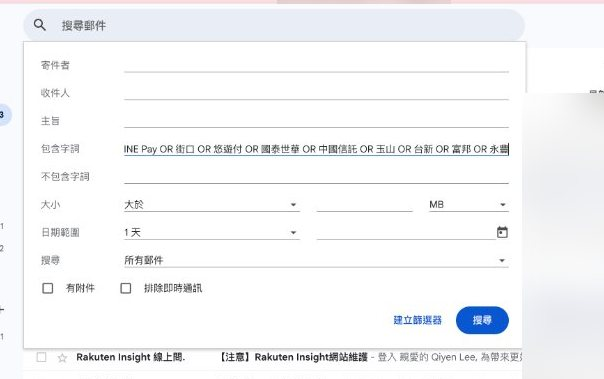
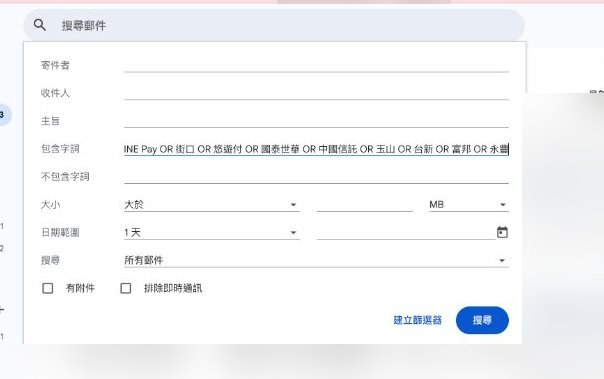
修正教學影片滑鼠殘影、逐張校對所有點擊座標並拉長每幕停留時間至 3.5 秒

Changed region(s): [[0.3576, 0.8997, 0.8642, 0.9578], [0.0298, 0.8997, 0.3278, 0.9578], [0.3278, 0.8997, 0.3576, 0.9288]]

diff --git a/src/features/inbox/GuideDemoVideo.tsx b/src/features/inbox/GuideDemoVideo.tsx
@@ -24,18 +24,20 @@ interface FrameDef {
   phase: number;
 }
 
+const FRAME_MS = 3500;
+
 const SCENE_FRAMES: Record<GuideDemoScene, FrameDef[]> = {
   'shortcut-step1': [
     {
       img: '/guides/sc-1a.jpg',
       caption: '打開 iCloud 捷徑後，點下方藍色「設定捷徑」',
-      cursor: { x: 50, y: 92, click: true },
+      cursor: { x: 50, y: 96, click: true },
       phase: 0,
     },
     {
       img: '/guides/sc-1b.jpg',
       caption: '長按「Text」輸入框，選擇「貼上」專屬連結碼',
-      cursor: { x: 28, y: 23, click: true },
+      cursor: { x: 16, y: 24, click: true },
       phase: 1,
     },
     {
@@ -49,19 +51,19 @@ const SCENE_FRAMES: Record<GuideDemoScene, FrameDef[]> = {
     {
       img: '/guides/sc-2a.jpg',
       caption: '在「自動化」分頁確認「自動化操作」為綠色開啟',
-      cursor: { x: 86, y: 65, click: true },
+      cursor: { x: 86, y: 74, click: true },
       phase: 0,
     },
     {
       img: '/guides/sc-2a.jpg',
       caption: '點上方 App 列表確認已勾選銀行／支付通知來源',
-      cursor: { x: 50, y: 36, click: true },
+      cursor: { x: 42, y: 54, click: true },
       phase: 1,
     },
     {
       img: '/guides/sc-2a.jpg',
       caption: '下方「感應任何卡片時」也可依需求開啟 ✓',
-      cursor: { x: 45, y: 83, click: true },
+      cursor: { x: 34, y: 96, click: true },
       phase: 2,
     },
   ],
@@ -75,25 +77,25 @@ const SCENE_FRAMES: Record<GuideDemoScene, FrameDef[]> = {
     {
       img: '/guides/gm-2a.jpg',
       caption: '點 Gmail 右上角齒輪 ⚙ →「查看所有設定」',
-      cursor: { x: 85, y: 16, click: true },
+      cursor: { x: 86, y: 16, click: true },
       phase: 0,
     },
     {
       img: '/guides/gm-2b.jpg',
-      caption: '切到「轉寄和 POP/IMAP」→ 點「新增轉寄地址」',
-      cursor: { x: 50, y: 39, click: true },
+      caption: '切到「轉寄和 POP/IMAP」分頁',
+      cursor: { x: 45, y: 41, click: true },
       phase: 1,
     },
     {
       img: '/guides/gm-2c.jpg',
-      caption: '貼上專屬轉寄地址並點「下一步」送出驗證',
-      cursor: { x: 64, y: 76, click: true },
+      caption: '點「新增轉寄地址」貼上專屬地址，再點「下一步」',
+      cursor: { x: 59, y: 80, click: true },
       phase: 2,
     },
     {
       img: '/guides/gm-2d.jpg',
       caption: '完成 Gmail 驗證後，維持「停用轉寄」即可 ✓',
-      cursor: { x: 32, y: 22, click: true },
+      cursor: { x: 26, y: 28, click: true },
       phase: 3,
     },
   ],
@@ -106,34 +108,40 @@ const SCENE_FRAMES: Record<GuideDemoScene, FrameDef[]> = {
     },
     {
       img: '/guides/gm-3b.jpg',
-      caption: '在「包含字詞」貼上關鍵字 → 點「建立篩選器」',
-      cursor: { x: 71, y: 86, click: true },
+      caption: '在「包含字詞」欄位貼上消費與銀行關鍵字',
+      cursor: { x: 42, y: 39, click: true },
       phase: 1,
+    },
+    {
+      img: '/guides/gm-3b.jpg',
+      caption: '點右下角「建立篩選器」進入動作設定',
+      cursor: { x: 69, y: 84, click: true },
+      phase: 2,
     },
     {
       img: '/guides/gm-3c.jpg',
       caption: '勾選「轉寄給」專屬地址並點「建立篩選器」✓',
-      cursor: { x: 82, y: 87, click: true },
-      phase: 2,
+      cursor: { x: 77, y: 88, click: true },
+      phase: 3,
     },
   ],
   'email-step4': [
     {
       img: '/guides/gm-4a.jpg',
-      caption: '打開銀行消費通知信，點右上角 ⋮ →「轉寄」（或下方轉寄）',
-      cursor: { x: 85, y: 21, click: true },
+      caption: '打開銀行消費通知信，點右上角 ⋮ →「轉寄」',
+      cursor: { x: 83, y: 21, click: true },
       phase: 0,
     },
     {
       img: '/guides/gm-4b.jpg',
-      caption: '收件者貼上專屬轉寄地址，點左下角藍色「傳送」',
-      cursor: { x: 12, y: 92, click: true },
+      caption: '在「收件者」欄位貼上專屬轉寄地址',
+      cursor: { x: 28, y: 17, click: true },
       phase: 1,
     },
     {
       img: '/guides/gm-4b.jpg',
-      caption: '送出後回到 Aster，狀態會顯示「已連線 · 1 筆」✓',
-      cursor: { x: 12, y: 92 },
+      caption: '點左下角藍色「傳送」，回到 Aster 即會顯示「已連線」✓',
+      cursor: { x: 12, y: 90, click: true },
       phase: 2,
     },
   ],
@@ -152,17 +160,18 @@ function CursorPointer({
 }) {
   return (
     <div
+      key={stepKey}
       className={`gdemo-cursor${click ? ' is-click' : ''}`}
       style={{ left: `${x}%`, top: `${y}%` }}
       aria-hidden="true"
     >
-      {click && <span key={stepKey} className="gdemo-ripple" />}
+      {click && <span className="gdemo-ripple" />}
       <svg width="22" height="22" viewBox="0 0 24 24" fill="none">
         <path
           d="M5.5 3.2L19 12.2l-6.1 1.4 2.7 5.5-2.2 1.1-2.7-5.5L6.5 19V3.2Z"
           fill="#FFFFFF"
           stroke="#111318"
-          strokeWidth="1.9"
+          strokeWidth="2.1"
           strokeLinejoin="round"
         />
       </svg>
@@ -228,7 +237,7 @@ export function GuideDemoVideo({ scene }: { scene: GuideDemoScene }) {
     setIdx(0);
     const id = window.setInterval(() => {
       setIdx((i) => (i + 1) % frames.length);
-    }, 1850);
+    }, FRAME_MS);
     return () => window.clearInterval(id);
   }, [scene, frames.length]);
 

diff --git a/src/theme/app.css b/src/theme/app.css
@@ -4211,25 +4211,29 @@ html.voice-holding .sheet, html.voice-holding .sheet-backdrop { pointer-events: 
   color: #065f46; font-size: 7.5px; font-weight: 700;
 }
 
-/* 明顯但不過大的模擬滑鼠指標（相對於實機螢幕） */
+/* 明顯但不過大的模擬滑鼠指標（純 transform/opacity 動畫，避免 iOS WebKit left/top + drop-shadow 產生殘影） */
 .gdemo-cursor {
   position: absolute; z-index: 12; pointer-events: none;
-  transform: translate(-3px, -2px);
-  transition: left 380ms cubic-bezier(0.22, 1, 0.36, 1), top 380ms cubic-bezier(0.22, 1, 0.36, 1);
-  filter: drop-shadow(0 2px 5px rgba(0, 0, 0, 0.55));
+  transform: translate3d(-5px, -3px, 0);
+  will-change: transform, opacity;
+  backface-visibility: hidden;
+  -webkit-backface-visibility: hidden;
 }
-.gdemo-cursor.is-click { animation: gdemo-tap 560ms ease-in-out 380ms 1; }
+.gdemo-cursor.is-click { animation: gdemo-tap 700ms cubic-bezier(0.22, 1, 0.36, 1) 180ms 1; }
 .gdemo-ripple {
-  position: absolute; left: -6px; top: -6px; width: 18px; height: 18px; border-radius: 50%;
-  border: 2px solid #38bdf8; opacity: 0; animation: gdemo-ripple 580ms ease-out 380ms 1;
+  position: absolute; left: -9px; top: -9px; width: 28px; height: 28px; border-radius: 50%;
+  border: 2.5px solid #38bdf8; opacity: 0;
+  will-change: transform, opacity;
+  animation: gdemo-ripple 720ms ease-out 260ms 1;
 }
 @keyframes gdemo-tap {
-  0%, 100% { transform: translate(-3px, -2px) scale(1); }
-  45% { transform: translate(-3px, -2px) scale(0.84); }
+  0% { transform: translate3d(-5px, -3px, 0) scale(1); }
+  40% { transform: translate3d(-5px, -3px, 0) scale(0.82); }
+  100% { transform: translate3d(-5px, -3px, 0) scale(1); }
 }
 @keyframes gdemo-ripple {
-  0% { transform: scale(0.5); opacity: 0.95; }
-  100% { transform: scale(1.75); opacity: 0; }
+  0% { transform: scale(0.4); opacity: 0.95; }
+  100% { transform: scale(1.65); opacity: 0; }
 }
 .gdemo-real-frame {
   position: relative;

diff --git a/tests/unit/guide-demo-video.test.ts b/tests/unit/guide-demo-video.test.ts
@@ -29,7 +29,7 @@ describe('GuideDemoVideo 真實截圖與動態指標教學', () => {
     { scene: 'shortcut-step1', expectedSteps: 3, expectedImgPrefix: '/guides/sc-1' },
     { scene: 'shortcut-step2', expectedSteps: 3, expectedImgPrefix: '/guides/sc-2' },
     { scene: 'email-step2', expectedSteps: 4, expectedImgPrefix: '/guides/gm-2' },
-    { scene: 'email-step3', expectedSteps: 3, expectedImgPrefix: '/guides/gm-3' },
+    { scene: 'email-step3', expectedSteps: 4, expectedImgPrefix: '/guides/gm-3' },
     { scene: 'email-step4', expectedSteps: 3, expectedImgPrefix: '/guides/gm-4' },
   ];
 
@@ -47,7 +47,7 @@ describe('GuideDemoVideo 真實截圖與動態指標教學', () => {
       expect(host.querySelector('.gdemo-badge')?.textContent).toBe(`步驟 1／${expectedSteps}`);
 
       await act(async () => {
-        vi.advanceTimersByTime(1850);
+        vi.advanceTimersByTime(3500);
       });
       expect(host.querySelector('.gdemo-badge')?.textContent).toBe(`步驟 2／${expectedSteps}`);
 
@@ -72,7 +72,7 @@ describe('GuideDemoVideo 真實截圖與動態指標教學', () => {
     expect(host.querySelector('.gdemo-badge')?.textContent).toBe('步驟 1／4');
 
     await act(async () => {
-      vi.advanceTimersByTime(1850 * 2);
+      vi.advanceTimersByTime(3500 * 2);
     });
     expect(host.querySelector('.gdemo-badge')?.textContent).toBe('步驟 3／4');
   });
